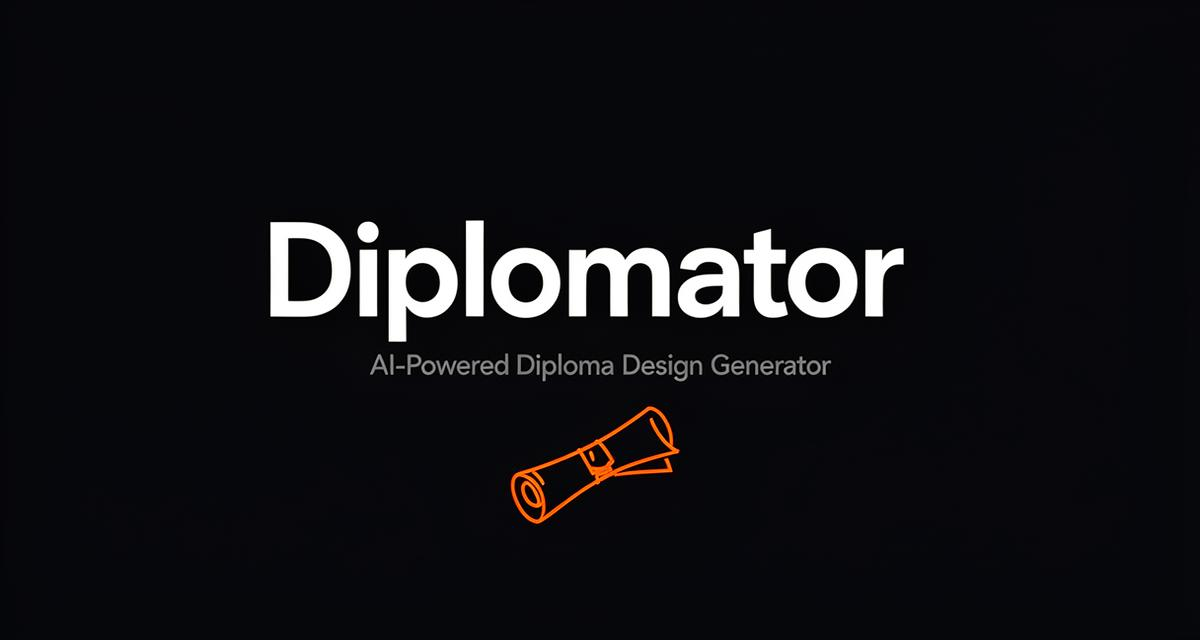
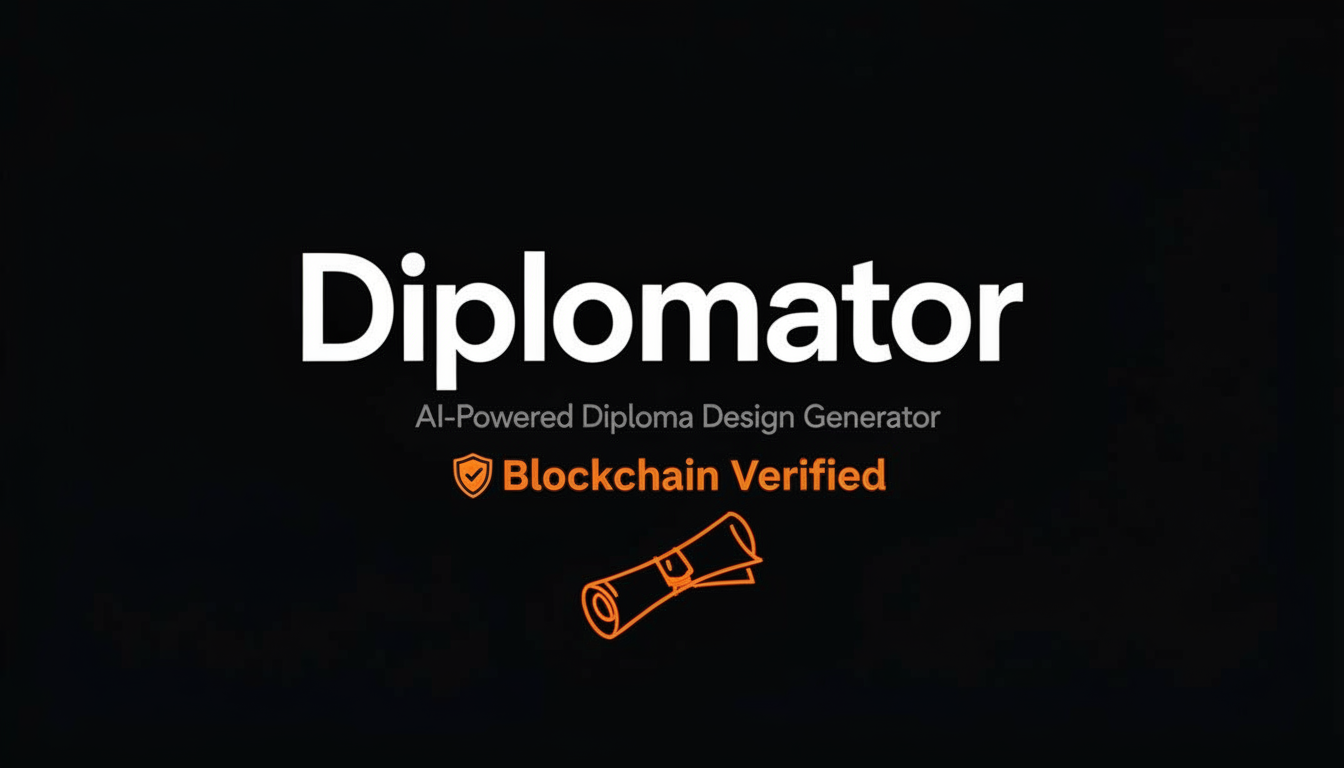
Changes

Changed region(s): [[0.2158, 0.3125, 0.7708, 0.8438]]

diff --git a/index.html b/index.html
@@ -5,7 +5,7 @@
     <meta charset="UTF-8" />
     <meta name="viewport" content="width=device-width, initial-scale=1.0" />
     <title>Diplomator</title>
-    <meta name="description" content="Diploma Design Generator">
+    <meta name="description" content="AI-Powered Diploma Design Generator with Blockchain Verification">
     <meta name="author" content="Magnus Froste" />
     <link rel="icon" href="/lovable-uploads/0fe040f4-6866-4c1f-8dff-ec186506d1b0.png" type="image/png">
 
@@ -19,8 +19,8 @@
     <meta name="twitter:image" content="/og-image.png">
     <meta property="og:title" content="Diplomator">
   <meta name="twitter:title" content="Diplomator">
-  <meta property="og:description" content="Diploma Design Generator">
-  <meta name="twitter:description" content="Diploma Design Generator">
+  <meta property="og:description" content="AI-Powered Diploma Design Generator with Blockchain Verification">
+  <meta name="twitter:description" content="AI-Powered Diploma Design Generator with Blockchain Verification">
 </head>
 
   <body>
